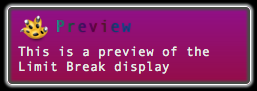
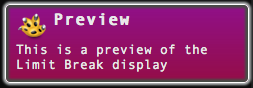
animated high alert level, modified emergency level, updated readme

diff --git a/Limit Break.growlStyle/Contents/Resources/default.css b/Limit Break.growlStyle/Contents/Resources/default.css
@@ -5,25 +5,15 @@ body {
     position: relative;
 }
 body > div {
+    display: block;
     border: 1px solid white;
     border-radius: 5px 5px 5px 5px;
     box-shadow: 0 0 2px 3px #474C46 inset, 0 0 2px 2px #B6BABB;
     background: -webkit-gradient(linear, left top, left bottom, from(#000097), to(#000030));
     padding: 5px 10px 10px;
 }
-body > div#emergency {
-    background: -webkit-gradient(linear, left top, left bottom, from(#901089), to(#940D47));
-}
-body > div#emergency #title {
-    background-image:-webkit-gradient(linear, left top, right top, color-stop(0, #31BBBE), color-stop(0.2, #246851), color-stop(0.4, #6A008F), color-stop(0.6, #860D20), color-stop(0.8, #1A52A7));
-    color:transparent;
-    -webkit-background-clip: text;
-    text-shadow: 0 0 1px rgba(0,0,0,0.2);
-}
 #icon {
     float: left;
-    top: 10px;
-    left: 10px;
     width: 32px;
     height: 32px;
     margin-right: 5px;
@@ -36,9 +26,35 @@ body > div#emergency #title {
     font-weight: bold;
     font-size: medium;
     float: left;
-    margin-top: 5px;
+    max-width: 180px;
 }
 #text {
     font-size:small;
     display: inline-block;
+}
+
+/* Level 1 */
+body > div#verylow {
+}
+
+/* Level 2 */
+body > div#moderate {
+}
+
+/* Level 3 */
+body > div#normal {
+}
+
+/* Limit Break Available */
+/*body > div#high #title {*/
+body > div #title {
+    background-image: url('rainbow.gif');
+    color:transparent;
+    -webkit-background-clip: text;
+    text-shadow: 0 0 1px rgba(0,0,0,0.2);
+}
+
+/* LIMIT BREAK! */
+body > div#emergency {
+    background: -webkit-gradient(linear, left top, left bottom, from(#901089), to(#940D47));
 }

diff --git a/README.md b/README.md
@@ -4,6 +4,11 @@ All normal windows are styled blue with the exception of the emergency window, w
 
 To install simply double click the .growlStyle package
 
+*Normal View*
 ![](https://github.com/aMoniker/Limit-Break/blob/master/screenshots/Limit%20Break%20Normal.png?raw=true)
 
+*High Priority*
+![](https://github.com/aMoniker/Limit-Break/blob/master/screenshots/Limit%20Break%20High.png?raw=true)
+
+*Emergency Alert!*
 ![](http://github.com/aMoniker/Limit-Break/blob/master/screenshots/Limit%20Break%20Emergency.png?raw=true)
